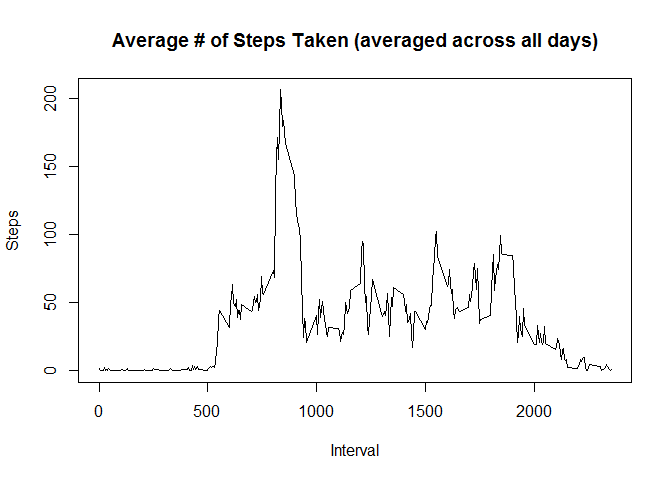
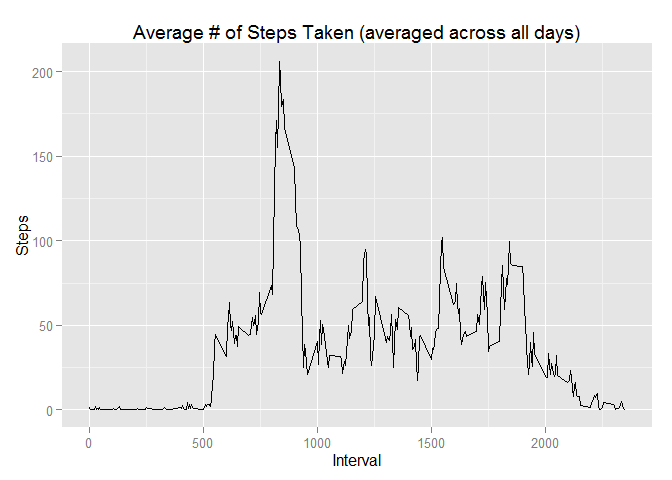
- Weekend vs weekdays

diff --git a/PA1_template.html b/PA1_template.html
@@ -69,9 +69,15 @@ img {
     rm(list=(ls()))
 
     ## Load libraries
+    library(plyr)
     library(dplyr)</code></pre>
 <pre><code>## 
 ## Attaching package: 'dplyr'
+## 
+## The following objects are masked from 'package:plyr':
+## 
+##     arrange, count, desc, failwith, id, mutate, rename, summarise,
+##     summarize
 ## 
 ## The following object is masked from 'package:stats':
 ## 
@@ -80,6 +86,7 @@ img {
 ## The following objects are masked from 'package:base':
 ## 
 ##     intersect, setdiff, setequal, union</code></pre>
+<pre class="r"><code>    library(ggplot2)</code></pre>
 <div id="loading-and-preprocessing-the-data" class="section level2">
 <h2>Loading and preprocessing the data</h2>
 <p>Load data and group by date:</p>
@@ -124,8 +131,8 @@ data.group.interval &lt;- group_by(data, interval)
 data.sum.interval &lt;- summarize(data.group.interval, mean = mean(steps, na.rm = TRUE))
 
 ## Display time series
-plot(data.sum.interval$interval, data.sum.interval$mean, type = &quot;l&quot;, xlab = &quot;Interval&quot;, ylab = &quot;Steps&quot;, main = &quot;Average # of Steps Taken (averaged across all days)&quot;)</code></pre>
[1 lines of base64/hex data omitted]
+ggplot(data.sum.interval, aes(x = interval, y = mean)) + geom_line() + xlab(&quot;Interval&quot;) + ylab(&quot;Steps&quot;) + ggtitle(&quot;Average # of Steps Taken (averaged across all days)&quot;)</code></pre>
[1 lines of base64/hex data omitted]
 <pre class="r"><code>## Which 5-minute interval, on average across all the days in the dataset, contains the maximum number of steps
 data.sum.interval[which(data.sum.interval$mean == max(data.sum.interval$mean)), ]</code></pre>
 <pre><code>## Source: local data frame [1 x 2]
@@ -164,6 +171,16 @@ summarize(data.nona.sum.date, mean = mean(steps, na.rm = TRUE), median = median(
 </div>
 <div id="are-there-differences-in-activity-patterns-between-weekdays-and-weekends" class="section level2">
 <h2>Are there differences in activity patterns between weekdays and weekends?</h2>
+<pre class="r"><code>## Create new factor var
+list_weekdays &lt;- c('Monday', 'Tuesday', 'Wednesday', 'Thursday', 'Friday')
+data.nona$wd_we &lt;- factor((weekdays(as.Date(data.nona$date)) %in% list_weekdays) + 1L, levels = 1:2, labels=c(&quot;weekend&quot;, &quot;weekday&quot;))
+
+## Average # of steps per interval
+data.nona.sum.interval &lt;- ddply(data.nona, c(&quot;interval&quot;, &quot;wd_we&quot;), summarize, steps = mean(steps))
+    
+# Panel plot
+ggplot(data.nona.sum.interval, aes(x = interval, y = steps, group = wd_we)) + facet_wrap( ~ wd_we) + geom_line()</code></pre>
[1 lines of base64/hex data omitted]
 </div>
 
 

diff --git a/PA1_template.md b/PA1_template.md
@@ -7,12 +7,18 @@ Clean up memory and load needed libraries:
     rm(list=(ls()))
 
     ## Load libraries
+    library(plyr)
     library(dplyr)
 ```
 
 ```
 ## 
 ## Attaching package: 'dplyr'
+## 
+## The following objects are masked from 'package:plyr':
+## 
+##     arrange, count, desc, failwith, id, mutate, rename, summarise,
+##     summarize
 ## 
 ## The following object is masked from 'package:stats':
 ## 
@@ -21,6 +27,10 @@ Clean up memory and load needed libraries:
 ## The following objects are masked from 'package:base':
 ## 
 ##     intersect, setdiff, setequal, union
+```
+
+```r
+    library(ggplot2)
 ```
 
 
@@ -88,7 +98,7 @@ data.group.interval <- group_by(data, interval)
 data.sum.interval <- summarize(data.group.interval, mean = mean(steps, na.rm = TRUE))
 
 ## Display time series
-plot(data.sum.interval$interval, data.sum.interval$mean, type = "l", xlab = "Interval", ylab = "Steps", main = "Average # of Steps Taken (averaged across all days)")
+ggplot(data.sum.interval, aes(x = interval, y = mean)) + geom_line() + xlab("Interval") + ylab("Steps") + ggtitle("Average # of Steps Taken (averaged across all days)")
 ```
 
 ![](PA1_template_files/figure-html/unnamed-chunk-4-1.png) 
@@ -153,3 +163,17 @@ summarize(data.nona.sum.date, mean = mean(steps, na.rm = TRUE), median = median(
 
 
 ## Are there differences in activity patterns between weekdays and weekends?
+
+```r
+## Create new factor var
+list_weekdays <- c('Monday', 'Tuesday', 'Wednesday', 'Thursday', 'Friday')
+data.nona$wd_we <- factor((weekdays(as.Date(data.nona$date)) %in% list_weekdays) + 1L, levels = 1:2, labels=c("weekend", "weekday"))
+
+## Average # of steps per interval
+data.nona.sum.interval <- ddply(data.nona, c("interval", "wd_we"), summarize, steps = mean(steps))
+    
+# Panel plot
+ggplot(data.nona.sum.interval, aes(x = interval, y = steps, group = wd_we)) + facet_wrap( ~ wd_we) + geom_line()
+```
+
+![](PA1_template_files/figure-html/unnamed-chunk-6-1.png) 
